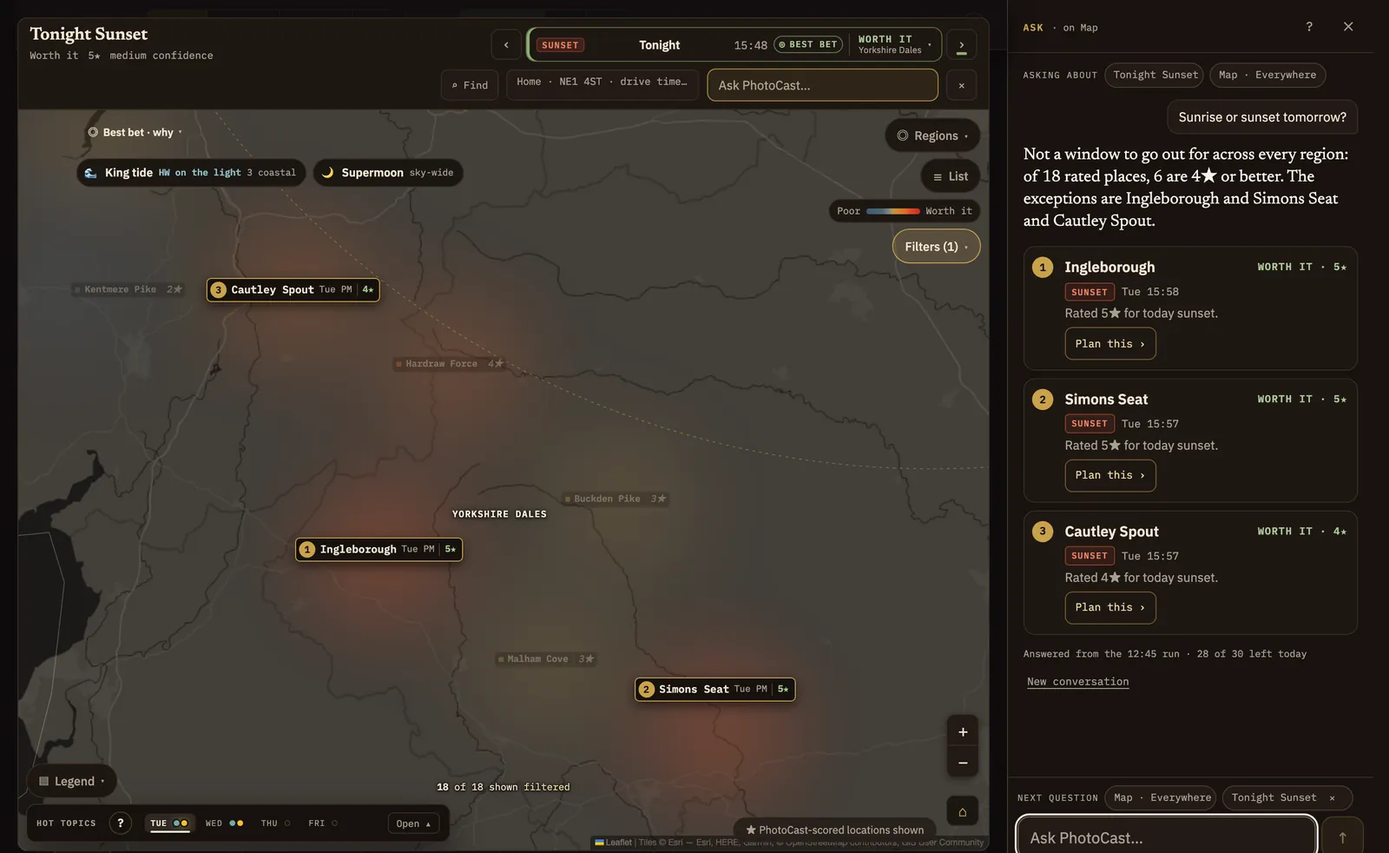
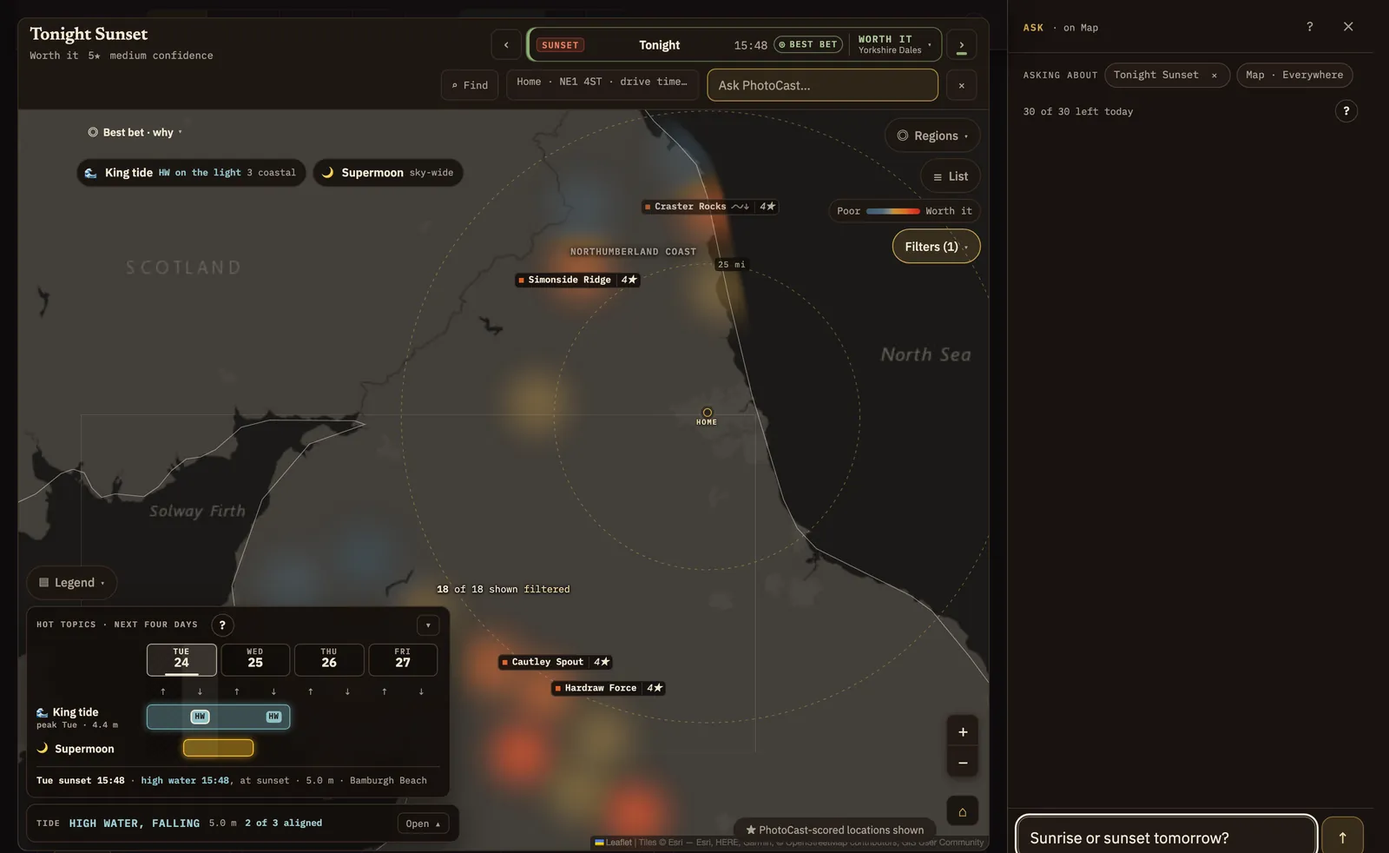
docs: one screen O4a review round 1
Re-take the Ask shot with no answer text; remove the aurora and astro shots and crop the tide shot and re-take the hot-topics shot so no real home marker ships; fix home framing, toast text, rating floors, watched-date chips, the no-callout note and area/region address wording; 3 s meta refresh so moved.js decides; moved.js and tab/Coming up tests; stale class and test names; TravelRangePanel copy; plan doc.

diff --git a/landing/guide/planning.html b/landing/guide/planning.html
@@ -28,7 +28,7 @@
 </div>
 </header>
 <main>
-<div class="phead"><div class="wrap"><div class="g-top"><a href="index.html">Guide</a><span class="sep">/</span><span>Planning a shoot</span></div><h1>Planning<br>a shoot.</h1><p>PhotoCast is one screen. <b>This week</b> sets out the next few sunrises and sunsets side by side, and <b>Further ahead</b> sits underneath it with the dates that are known months in advance. Tap a sunrise or sunset and the <a href="map.html">map</a> opens over the screen. There are no tabs to switch between.</p></div></div>
+<div class="phead"><div class="wrap"><div class="g-top"><a href="index.html">Guide</a><span class="sep">/</span><span>Planning a shoot</span></div><h1>Planning<br>a shoot.</h1><p>PhotoCast is one screen. <b>This week</b> sets out the next few sunrises and sunsets side by side, and <b>Further ahead</b> sits underneath it with the dates that are known months in advance. Tap a sunrise or sunset and the <a href="map.html">map</a> opens over the screen.</p></div></div>
 <div class="wrap"><div class="g-layout">
 <nav class="toc" aria-label="On this page"><span class="lab">On this page</span><ol><li><a href="#screen">The one screen</a></li><li><a href="#top">Top of the screen</a></li><li><a href="#lens">Drive and rating</a></li><li><a href="#this-week">This week</a></li><li><a href="#your-places">Your places row</a></li><li><a href="#days">The days ahead</a></li><li><a href="#windows">Sunrise and sunset cards</a></li><li><a href="#open">Opening a sunrise or sunset</a></li><li><a href="#bestbet">Best bet</a></li><li><a href="#away">Planning from elsewhere</a></li><li><a href="#further-ahead">Further ahead</a></li><li><a href="#topics">Every topic</a></li><li><a href="#new">New arrivals</a></li><li><a href="#filters">Filters</a></li><li><a href="#entries">Reading an entry</a></li><li><a href="#tides">Tide at the light</a></li><li><a href="#actions">Going further</a></li><li><a href="#watch-a-date">Watch a date</a></li><li><a href="#find">Finding places and areas</a></li><li><a href="#warnings">Weather warnings</a></li><li><a href="#tips">Tips</a></li></ol></nav>
 <div class="g-body">
@@ -56,7 +56,7 @@
 <p>It starts at 45 minutes on weekdays and 2h 30 at weekends. If you change it, a <span class="ui">today only</span> tag appears with a <span class="ui">Back to 45 min</span> button, and it resets the next day. If you're planning from somewhere else, it reads <span class="ui">Drive from Keswick</span>, for example.</p>
 <p>The filter uses your personalised drive times. On Lite the drive time buttons are greyed out and every location counts.</p>
 <h3>Rated</h3>
-<p>Hide anything below a rating: <span class="ui">Any rating</span>, or one to four stars and above. This works on Lite and Pro.</p>
+<p>Hide anything below a rating: <span class="ui">Any rating</span>, <span class="ui">3★+</span> or <span class="ui">4★+</span>. This works on Lite and Pro.</p>
 <p>The end of the bar tells you what's left, for example "12 spots across 6 windows", which means 12 locations across six sunrise and sunset forecasts. If your filters leave nothing, PhotoCast says so and offers a one-tap way out, such as widening the drive time or lowering the rating.</p>
 <p>These filters belong to This week. Further ahead, below it, is not filtered by drive time or rating.</p>
 </section>
@@ -99,7 +99,7 @@
 <p>A location set up for sunrise only is never rated at sunset. It isn't hidden or given a low score. PhotoCast simply doesn't forecast it for sunset, so it doesn't appear anywhere in that sunset card's spread.</p>
 </section>
 <section class="g-sec" id="open"><h2>Opening a sunrise or sunset</h2>
-<p>Tap a card to open that sunrise or sunset on the <a href="map.html">map</a>. The map opens over the screen with the sunrise or sunset already selected, your drive time and rating filters carried over, and the view framed to show your home and the card's best place together, with that place's callout open. The map has the regions, a <span class="ui">☰ List</span> of the places for that sunrise or sunset, best first, and the callout for each one. Use <span class="ui">‹</span> and <span class="ui">›</span> in the map's header to step to the previous or next sunrise or sunset. <span class="ui">✕</span> closes the map and returns you to the card, and so does your browser's Back button.</p>
+<p>Tap a card to open that sunrise or sunset on the <a href="map.html">map</a>. The map opens over the screen with the sunrise or sunset already selected, your drive time and rating filters carried over, and, when you have a home set, the view framed to show your home and the best place together, with that place's callout open. A lane or a Your places chip opens the map the same way. The map has the regions, a <span class="ui">☰ List</span> of the places for that sunrise or sunset, best first, and the callout for each one. Use <span class="ui">‹</span> and <span class="ui">›</span> in the map's header to step to the previous or next sunrise or sunset. <span class="ui">✕</span> closes the map and returns you to the card, and so does your browser's Back button.</p>
 <p>The map has its own web address, in the form <span class="ui">#map/2026-12-03/sunrise</span>, so you can bookmark a sunrise or sunset or send it to someone. The address never carries your home or your filters.</p>
 <p>Tap a location for its own forecast: every sunrise and sunset over the coming days, the times of blue hour and golden hour, and the tide if it's on the coast. If a Met Office <a href="weather-warnings.html">weather warning</a> covers that location, a chip beside the day gives its level and weather type. From there you can also open the same sunrise or sunset on the <a href="map.html">map</a>.</p>
 <figure class="shot" id="shot-open"><img src="shots/open-map.webp" width="1600" height="376" alt="A sunset opened on the map: the header with the window title, the previous and next arrows, the Best bet sunset window, Find, the home chip and the close button, with the Best bet button, hot topic chips for King tide and Supermoon, and the Regions, List and Filters buttons over the map."><figcaption>A card opened on the map: the window control and its ‹ › arrows in the header, with Regions, List and Filters on the right.</figcaption></figure>
@@ -151,7 +151,7 @@
 </dl>
 </section>
 <section class="g-sec" id="new"><h2>New arrivals</h2>
-<p>As each day passes, new dates come into the 90-day window. When something notable arrives, the <span class="ui">Further ahead ↓</span> button shows a small number, the Further ahead heading shows the same number, and a line appears at the top of the list naming the most notable arrival, for example "2 announced — the Geminids entered the window". Something exceptional is marked <span class="ui">◆ Rare</span>.</p>
+<p>As each day passes, new dates come into the 90-day window. When something notable arrives, the <span class="ui">Further ahead ↓</span> button shows a small number, or <span class="ui">◆</span> for something rare, the Further ahead heading shows the same number, and a line appears at the top of the list naming the most notable arrival, for example "2 announced — the Geminids entered the window". Something exceptional is marked <span class="ui">◆ Rare</span>.</p>
 <p>Press <span class="ui">Mark as seen</span> to clear the number. Scrolling past it does not clear it. Most of the time there's nothing new, and the button stays quiet.</p>
 </section>
 <section class="g-sec" id="filters"><h2>Filters</h2>
@@ -195,11 +195,11 @@
 <li>Until then the row says "no forecast for this day yet". Come back nearer the time, or <a href="#watch-a-date">watch the date</a> and it will come to you.</li></ul>
 </section>
 <section class="g-sec" id="watch-a-date"><h2>Watch a date<span class="pro">Pro</span></h2>
-<p>Open an entry in Further ahead and press <span class="ui">Watch this date</span>. The button stays pressed while you are watching. PhotoCast shows <span class="ui">Watching King tide. It joins your places.</span> with an <span class="ui">Undo</span> button, and the date joins your <a href="#your-places">Your places row</a> at the top of This week. Watched dates come first in that row, earliest first.</p>
+<p>Open an entry in Further ahead and press <span class="ui">Watch this date</span>. The button stays pressed while you are watching. PhotoCast shows <span class="ui">Watching King tide · 3 Dec. It joins your places.</span> with an <span class="ui">Undo</span> button, and the date joins your <a href="#your-places">Your places row</a> at the top of This week. Watched dates come first in that row, earliest first.</p>
 <h3>Before the date enters the forecast</h3>
 <p>The chip reads like <span class="ui">★ Geminids · 14 Dec</span>, with <span class="ui">in 20 days · best spots once it's forecast</span> underneath. Tap it and the screen scrolls down to the entry and opens it.</p>
 <h3>Once the date is inside the forecast</h3>
-<p>The chip becomes the plan for that morning or evening: the date, the best place and its stars, and <span class="ui">tide on the light</span> where high water falls at sunrise or sunset. Tap it to open the map on that sunrise or sunset. For a tide period PhotoCast chooses the sunrise or sunset where the tide is on the light, and the higher-rated one if both are. A date with no sunrise or sunset of its own, such as a meteor peak, shows a chip reading <span class="ui">clear-sky check on the night</span> instead. That chip is not a button.</p>
+<p>The chip becomes the plan for that morning or evening: the date, the best place and its stars, and <span class="ui">tide on the light</span> where high water falls at sunrise or sunset. Tap it to open the map on that sunrise or sunset. For a tide period PhotoCast chooses the sunrise or sunset where the tide is on the light, and the higher-rated one if both are. A date with no sunrise or sunset of its own, such as a meteor peak, shows a chip reading <span class="ui">clear-sky check on the night</span> instead. That chip is not a button. If no sunrise or sunset in a tide period has the tide on the light, or a date that is not a meteor peak has no matching topic, the chip keeps its countdown.</p>
 <h3>Stopping and expiry</h3>
 <ul><li>Press <span class="ui">Watch this date</span> again to stop, or press the <span class="ui">×</span> on the date's chip. Either way you get <span class="ui">Stopped watching</span> and an <span class="ui">Undo</span>.</li>
 <li>The chip stops showing once the event is over, and PhotoCast deletes the watch itself 14 days after the date it started.</li>

diff --git a/landing/guide/map.html b/landing/guide/map.html
@@ -34,7 +34,7 @@
 <div class="g-body">
 <section class="g-sec" id="view"><h2>Opening and closing the map</h2>
 <p>The map is a full-screen view over the forecast screen. There is no Map button: you open it from the thing you want to look at.</p>
-<ul><li>A <b>sunrise or sunset card</b> or an <b>event lane</b> in <a href="planning.html#this-week">This week</a> opens the map on that sunrise or sunset. A card also frames your home and the card's best place together and opens that place's callout.</li>
+<ul><li>A <b>sunrise or sunset card</b> or an <b>event lane</b> in <a href="planning.html#this-week">This week</a> opens the map on that sunrise or sunset. A card, a lane or a Your places chip also frames your home and the card's best place together (when you have a home set) and opens that place's callout.</li>
 <li>A chip in <a href="your-places.html">Your places</a> opens the map on that place's best sunrise or sunset, or on a watched date's morning.</li>
 <li>A day button on a <a href="planning.html#actions">Further ahead</a> entry opens the map on that day.</li>
 <li><span class="ui">⌕ Find</span> opens it when you pick a sunrise or sunset. <a href="finding-places.html#pick">More on Find</a>.</li>
@@ -43,7 +43,7 @@
 <p>To close it, press <span class="ui">✕</span> at the top right, press Escape, or use your browser's Back button. Back and Escape close whatever is on top first, such as a sheet or a menu, and the map last. Closing returns you to the card or lane you opened it from.</p>
 <h3>The map's address</h3>
 <p>The map has its own web address in the form <span class="ui">#map/2026-12-03/sunrise</span> (a date, then <span class="ui">sunrise</span>, <span class="ui">sunset</span>, <span class="ui">night</span> or <span class="ui">aurora</span>, and sometimes a place). Bookmark it, or send it, and PhotoCast opens the map on that sunrise or sunset after you sign in. If that sunrise or sunset has passed, or isn't forecast yet, the map opens with a short note saying so. The address never carries your home, your drive time or your filters.</p>
-<p>A place or area focus that Find gives you is not part of the address, so refreshing the page keeps the sunrise or sunset and not the place.</p>
+<p>An area or region focus that Find gives you is not part of the address, so a refresh keeps the sunrise or sunset but not the area. A place whose callout is open is kept.</p>
 </section>
 <section class="g-sec" id="window"><h2>Choosing a sunrise, sunset or night</h2>
 <p>The header names the sunrise or sunset you're looking at in a title, with its verdict, best rating and confidence beside it. Next to it, the control names the sunrise or sunset, such as <span class="ui">SUNSET Friday 16:17</span>, with the verdict, how many locations were rated, and the regions that look best. <span class="ui">◎ BEST BET</span> marks the one sunrise or sunset PhotoCast recommends most across the days ahead. Use <span class="ui">‹</span> and <span class="ui">›</span> to step through the days, or tap the middle to choose from the full list. The left and right arrow keys step too, while focus is in the header.</p>
@@ -73,7 +73,7 @@
 </section>
 <section class="g-sec" id="places"><h2>Locations and the callout</h2>
 <p>Tap a location marker for its callout, a summary of that place for the sunrise or sunset you're on: its rating, the drive time, a <span class="ui">Leave by</span> time, how dark the sky is, and the tide if it's on the coast. If a Met Office weather warning covers the location, a chip on the callout gives its level and type. Open it for the full forecast over the coming days. From here you can also choose <span class="ui">Plan from here</span> to plan from that area for a while. <a href="planning.html#away">More on planning from elsewhere</a>.</p>
-<p><span class="ui">Show in This week</span> in the callout closes the map and opens that place's next-days sheet on the forecast screen, which is the way back to the days around a place you have found on the map.</p>
+<p><span class="ui">Show in This week</span> in the callout closes the map and opens that place's next-days sheet on the forecast screen, which is the way back to the days around a place you have found on the map. It is not offered on a sunrise or sunset that has passed.</p>
 <p class="pro-line"><span class="pro">Pro</span><span>Drive and leave-by times, Red Sky and Golden Hour scores and the tide at the light are available with Pro.</span></p>
 </section>
 <section class="g-sec" id="rate"><h2>How was it?<span class="pro">Pro</span></h2>
@@ -106,13 +106,13 @@
 </section>
 <section class="g-sec" id="hot-topics"><h2>Hot topics panel</h2>
 <p>The Hot topics panel sits at the bottom left and starts closed. Open it with <span class="ui">▴</span> to see the next four days, each split into sunrise <span class="ui">↑</span> and sunset <span class="ui">↓</span>. Each topic gets a row, with a bar across the sunrises and sunsets it covers. The day you're looking at is outlined.</p>
-<figure class="shot" id="shot-hot-topics"><img src="shots/map-hot-topics.webp" width="1600" height="736" alt="The Hot topics panel open over the map, showing Tuesday 3 to Friday 6 with a sunrise and sunset column each, and a bar for Mist on Wednesday."><figcaption>The Hot topics panel open: mist forecast on Wednesday.</figcaption></figure>
+<figure class="shot" id="shot-hot-topics"><img src="shots/map-hot-topics.webp" width="904" height="422" alt="The Hot topics panel open over the map, showing Tuesday 24 to Friday 27 with a sunrise and sunset column each, a King tide bar across Tuesday and Wednesday with HW marks, a Supermoon bar on Tuesday, and a line saying high water falls at sunset."><figcaption>The Hot topics panel open: a king tide with high water marked, and a supermoon.</figcaption></figure>
 </section>
 <section class="g-sec" id="tide"><h2>Tide panel<span class="pro">Pro</span></h2>
 <p>When the map shows any coast, a Tide panel appears at the bottom left. It answers the coastal question a sky forecast can't: will the water be where you want it at sunrise or sunset?</p>
 <h3>The tide curve</h3>
 <p>Open the panel to see the whole day's tide, from midnight to midnight. There's a lot in it, so here it is piece by piece, using Friday's 16:17 sunset.</p>
-<figure class="anno" id="shot-tide"><div class="crop"><img src="shots/map-tide.webp" width="2164" height="994" alt="The Tide panel open for Friday's 16:17 sunset: a curve from midnight to midnight with high water at 00:40 and 13:20, low water at 07:07 and 19:27, sunrise at 07:10 and sunset at 16:17 marked, and a dot at 0.2 m on the falling tide. The footer reads 13 of 25 coastal spots are dimmed, 11 of them want high water."><span class="pin xy-33_5-7_2">1</span><span class="pin xy-1_8-39_3">2</span><span class="pin xy-26_6-42_6">3</span><span class="pin xy-48_3-28_9">4</span><span class="pin xy-52_2-51_8">5</span><span class="pin xy-72_6-45_9">6</span><span class="pin xy-84_2-75_7">7</span><span class="pin xy-27_6-88_9">8</span><span class="pin xy-95-26_9">9</span></div></figure>
+<figure class="anno" id="shot-tide"><div class="crop full"><img src="shots/map-tide.webp" width="896" height="360" alt="The Tide panel open for Friday's 16:17 sunset: a curve from midnight to midnight with high water at 00:40 and 13:20, low water at 07:07 and 19:27, sunrise at 07:10 and sunset at 16:17 marked, and a dot at 0.2 m on the falling tide. The footer reads 13 of 25 coastal spots are dimmed, 11 of them want high water."><span class="pin xy-33_5-7_2">1</span><span class="pin xy-1_8-39_3">2</span><span class="pin xy-26_6-42_6">3</span><span class="pin xy-48_3-28_9">4</span><span class="pin xy-52_2-51_8">5</span><span class="pin xy-72_6-45_9">6</span><span class="pin xy-84_2-75_7">7</span><span class="pin xy-27_6-88_9">8</span><span class="pin xy-95-26_9">9</span></div></figure>
 <ol class="anno-key">
 <li><span class="n">1</span><span><b>The answer in words.</b> The state of the tide at sunrise or sunset and whether the water level is rising or falling (<span class="ui">MID TIDE, FALLING</span>), then the height and how it compares with an average tide. If you read nothing else, read this.</span></li>
 <li><span class="n">2</span><span><b>High, mid and low.</b> Faint dashed lines across the chart mark high, mid and low water. The level that sunrise or sunset falls in is highlighted.</span></li>

diff --git a/landing/guide/night-sky.html b/landing/guide/night-sky.html
@@ -53,7 +53,6 @@
 <p>When the aurora is possible, aurora nights appear in the Map's list of events alongside the sunrises and sunsets, marked in green. Choose one and the map changes to aurora colours, from dark sky to aurora green, with each location rated for that night.</p>
 <span class="ramp ramp-night" aria-hidden="true"></span><div class="ramp-lab" aria-hidden="true"><span>1★ dark sky, no show</span><span>3★</span><span>5★ aurora green</span></div>
 <p class="mt-14">A line across the map estimates where the aurora may clear the northern horizon on camera. It is an estimate, not a firm boundary: north of it you have a chance, and the further north you are the better. Dashed amber is the forecast and pale is live.</p>
-<figure class="shot wide" id="shot-aurora-map"><img src="shots/map-aurora.webp" width="1600" height="660" alt="The map on tonight's aurora night: the window control reads AURORA, Tonight, and the map is shaded from dark sky to aurora green over the North East. Ragpath Wood and Low Barns, Witton Le Wear are rated 3 stars within the drive-time rings around home. The Hot topics panel shows aurora on Friday night."><figcaption>An aurora night on the Map. Each dark-sky location is rated for the night, and the colours run from dark sky to aurora green.</figcaption></figure>
 <p>Aurora nights have no regional verdict, so the rankings and Best bet used for sunrise and sunset don't apply. Go by the stars on each location and where the line falls. The Subject filter and the dark-sky toggle are hidden on aurora nights, because those nights already use only dark-sky locations.</p>
 <p class="pro-line"><span class="pro">Pro</span><span>Aurora nights on the Map are available with Pro. On Lite the aurora night in the list explains what Pro adds.</span></p>
 </section>
@@ -61,7 +60,6 @@
 <p>Astro nights rate locations for a clear, dark night sky, for stargazing, the Milky Way and astrophotography (photographing the night sky). They appear in the Map's list of events marked <span class="ui">ASTRO</span>, on nights the forecast has covered, with the time the night begins.</p>
 <p>Each location's rating takes account of the cloud forecast for the night and how dark the sky is there, so a clear sky over a town scores lower than the same sky over the fells. The map uses the same Poor to Worth it colours as a sunrise or sunset. The moon's phase and brightness are shown in a location's details, because a bright moon washes out faint stars.</p>
 <p>Astro nights have no regional verdict or Best bet. Go by the stars on each location. On astro nights the Subject filter and the dark-sky toggle are hidden, because those nights already use only dark-sky locations and sky darkness is already part of the rating. The rating floor, drive time and scope filters stay.</p>
-<figure class="shot wide" id="shot-astro"><img src="shots/map-astro.webp" width="1600" height="732" alt="The Map on tonight's astro night from 17:40, with warm colours across the Lake District, Yorkshire Dales and Northumberland, and 5-star locations including Holy Island Causeway, Dorothy Farrer's Spring Wood, Hawnby Hill, Conistone Limestone Pavement and Kilnsey Crag."><figcaption>Tonight's astro night: clear skies over the Lake District, the Dales and the North York Moors, with several 5★ dark-sky locations.</figcaption></figure>
 </section>
 <section class="g-sec" id="dark-sky"><h2>Dark skies</h2>
 <p>Every location has a light pollution rating on the Bortle scale, from 1 for the darkest skies to 9 for a city centre. You'll see it as "sky 3" on a location's chip and in its details.</p>

diff --git a/frontend/src/test/guideSections.test.js b/frontend/src/test/guideSections.test.js
@@ -29,8 +29,8 @@ describe('GUIDE_PAGES', () => {
     expect(stubs.sort()).toEqual(['at-a-glance.html', 'coming-up.html']);
     expect(Object.keys(GUIDE_PAGES)).not.toContain('at-a-glance');
     expect(Object.keys(GUIDE_PAGES)).not.toContain('coming-up');
-    expect(pageSource('at-a-glance')).toContain('content="0;url=planning.html"');
-    expect(pageSource('coming-up')).toContain('content="0;url=planning.html#further-ahead"');
+    expect(pageSource('at-a-glance')).toContain('content="3;url=planning.html"');
+    expect(pageSource('coming-up')).toContain('content="3;url=planning.html#further-ahead"');
   });
 
   it('is frozen, so a door cannot invent a page', () => {
@@ -211,8 +211,13 @@ describe('the one-screen guides (docs/engineering/one-screen-plan.md, O4a)', () 
 
   it('the guide describes one screen: no tab bar, no Coming up tab, no "At a Glance", no Map tab', () => {
     files.forEach((f) => {
-      const text = readFileSync(resolve(GUIDE_DIR, f), 'utf8').replace(/<[^>]+>/g, ' ');
-      expect(text, `${f} still names the old screens`).not.toMatch(/At a Glance|Map tab|Coming up tab|\bGlance\b/);
+      const source = readFileSync(resolve(GUIDE_DIR, f), 'utf8');
+      const description = source.match(/<meta name="description" content="([^"]*)"/)?.[1] ?? '';
+      const text = `${description} ${source.replace(/<[^>]+>/g, ' ')}`
+        .replace(/\b(new|browser|browser's) tab\b/gi, '');
+      expect(text, `${f} still names the old screens`)
+        .not.toMatch(/At a Glance|Map tab|Coming up tab|\bComing up\b|\bGlance\b/);
+      expect(text, `${f} still talks about tabs`).not.toMatch(/\btabs?\b/i);
     });
   });
 
@@ -235,5 +240,29 @@ describe('the one-screen guides (docs/engineering/one-screen-plan.md, O4a)', () 
       });
     });
     expect(problems).toEqual([]);
+  });
+});
+
+describe('moved.js, the redirect behind the two retired pages', () => {
+  const code = readFileSync(resolve(GUIDE_DIR, 'moved.js'), 'utf8');
+  /** Runs the script against a stubbed `location` and returns the URL it replaced to. */
+  const redirectOf = (pathname, search, hash) => {
+    let target = null;
+    new Function('location', code)({ pathname, search, hash, replace: (url) => { target = url; } });
+    return target;
+  };
+
+  it.each([
+    ['/guide/coming-up.html', '', '', 'planning.html#further-ahead'],
+    ['/guide/coming-up.html', '', '#list', 'planning.html#further-ahead'],
+    ['/guide/coming-up.html', '', '#watchlist', 'planning.html#your-places'],
+    ['/guide/coming-up.html', '?embed=1', '#tides', 'planning.html?embed=1#tides'],
+    ['/guide/coming-up.html', '', '#topics', 'planning.html#topics'],
+    ['/guide/at-a-glance.html', '', '', 'planning.html'],
+    ['/guide/at-a-glance.html', '', '#bestbet', 'planning.html#bestbet'],
+    ['/guide/at-a-glance.html', '?embed=1', '#lens', 'planning.html?embed=1#lens'],
+    ['/guide/at-a-glance.html', '', '#list', 'planning.html#list'],
+  ])('%s%s%s lands on %s', (pathname, search, hash, expected) => {
+    expect(redirectOf(pathname, search, hash)).toBe(expected);
   });
 });

diff --git a/landing/guide/your-places.html b/landing/guide/your-places.html
@@ -47,9 +47,9 @@
 <li><b>Ask PhotoCast.</b> Ask breaks an exact tie in your favour. See below.</li></ul>
 </section>
 <section class="g-sec" id="dates"><h2>Watching a date<span class="pro">Pro</span></h2>
-<p>A place or an area is somewhere you care about. A watched date is a day you care about: a king tide, a meteor shower, a solstice. Open the entry in <a href="planning.html#further-ahead">Further ahead</a> and press <span class="ui">Watch this date</span>. The button stays pressed while you are watching, and PhotoCast says <span class="ui">Watching King tide. It joins your places.</span> with an <span class="ui">Undo</span> button.</p>
-<ul><li><b>Before the date is in the forecast</b>, its chip in the Your places row reads like <span class="ui">★ King tide · 3 Dec · in 9 days</span>. Tap it to scroll to the entry and open it.</li>
-<li><b>Once it is in the forecast</b>, the chip shows the plan for that morning or evening: the best place and its stars, and <span class="ui">tide on the light</span> where it applies. Tap it to open the map on that sunrise or sunset. A date with no sunrise or sunset of its own, such as a meteor peak, shows <span class="ui">clear-sky check on the night</span> instead, which is not a button.</li>
+<p>A place or an area is somewhere you care about. A watched date is a day you care about: a king tide, a meteor shower, a solstice. Open the entry in <a href="planning.html#further-ahead">Further ahead</a> and press <span class="ui">Watch this date</span>. The button stays pressed while you are watching, and PhotoCast says <span class="ui">Watching King tide · 3 Dec. It joins your places.</span> with an <span class="ui">Undo</span> button.</p>
+<ul><li><b>Before the date is in the forecast</b>, its chip in the Your places row reads like <span class="ui">★ Geminids · 14 Dec</span>, with <span class="ui">in 20 days · best spots once it's forecast</span> underneath. Tap it to scroll to the entry and open it.</li>
+<li><b>Once it is in the forecast</b>, the chip shows the plan for that morning or evening: the best place and its stars, and <span class="ui">tide on the light</span> where it applies. Tap it to open the map on that sunrise or sunset. A date with no sunrise or sunset of its own, such as a meteor peak, shows <span class="ui">clear-sky check on the night</span> instead, which is not a button. If no sunrise or sunset in a tide period has the tide on the light, or a date that is not a meteor peak has no matching topic, the chip keeps its countdown.</li>
 <li><b>Stop watching</b> by pressing <span class="ui">Watch this date</span> again or the <span class="ui">×</span> on the chip, which says <span class="ui">Stop watching</span> to a screen reader. You get an <span class="ui">Undo</span> either way.</li>
 <li><b>Expiry.</b> A chip stops showing when the event is over, and PhotoCast deletes the watch 14 days after the date it started, so old dates never use up your 25.</li>
 <li>The noctilucent cloud season is a stretch of weeks, not a date, so it cannot be watched.</li></ul>

diff --git a/landing/guide/ask-photocast.html b/landing/guide/ask-photocast.html
@@ -36,7 +36,7 @@
 <ul><li><b>On a computer</b>, type into the <span class="ui">Ask PhotoCast…</span> box at the top of the screen (in the map's header while the map is open), or press <span class="ui">/</span> to jump straight to it. The answer opens as a column on the right. The map or the forecast screen narrows to make room, so you can read the answer and see the locations at the same time.</li>
 <li><b>On a phone or iPad</b>, tap <span class="ui">Ask PhotoCast…</span> at the bottom of the screen and the answer opens in a panel.</li></ul>
 <p>Ask knows where you are in the app. The <span class="ui">Asking about</span> labels at the top show which forecast and map area your question refers to. A sunrise or sunset label, such as <span class="ui">Tomorrow sunrise</span>, can be removed with ✕. A view label, such as <span class="ui">This week · all regions</span> or <span class="ui">Map · Everywhere</span>, cannot be removed. Once you have asked something, a <span class="ui">follow-up · N so far</span> label shows how long the conversation is.</p>
-<figure class="shot wide" id="shot-ask"><img src="shots/ask-on-map.webp" width="1600" height="771" alt="Ask PhotoCast open beside the Map. The question is 'Sunrise or sunset tomorrow?'. The answer says sunset is the better bet and lists numbered picks: 1 Alnmouth, Worth it, 4 stars, sunset Wednesday 16:23, 1h 11min from home, mid tide; 2 Bamburgh Castle. The same numbers mark the picks on the map."><figcaption>"Sunrise or sunset tomorrow?" The numbered picks in the answer are marked with the same numbers on the map.</figcaption></figure>
+<figure class="shot wide" id="shot-ask"><img src="shots/ask-on-map.webp" width="1600" height="982" alt="Ask PhotoCast open beside the map view. The Asking about labels read Tonight Sunset and Map · Everywhere, the allowance reads 30 of 30 left today, and the question Sunrise or sunset tomorrow? is typed into the box at the foot of the column, ready to send."><figcaption>Ask opens as a column beside the map. The labels under Asking about say which sunrise or sunset and which view the question is about.</figcaption></figure>
 </section>
 <section class="g-sec" id="ready"><h2>Ready questions</h2>
 <p>Ask suggests a few questions that suit what you're looking at, This week or the map, such as "Best spot this weekend?" or "Somewhere within an hour of home?". Ready answers are prepared in advance and do not count towards your daily question allowance.</p>

diff --git a/landing/guide/guide.css b/landing/guide/guide.css
@@ -95,8 +95,6 @@ html.embed .g-cards{grid-template-columns:minmax(0,1fr)}
 .anno-key li{display:grid;grid-template-columns:22px minmax(0,1fr);gap:12px;font-size:15px;color:var(--ink-soft)}
 .anno-key li b{color:var(--ink);font-weight:600}
 .anno .crop.full img{position:static;width:100%;height:auto}
-.anno .crop.wc{aspect-ratio:1030/165}
-.anno .crop.wc img{width:208.7%;left:-9.71%;top:0}
 .anno-key .n{width:22px;height:22px;border-radius:50%;background:var(--ink);color:#181210;font:600 11px var(--mono);display:flex;align-items:center;justify-content:center;margin-top:1px}
 /* hub search */
 .g-search{max-width:660px;margin:0 0 34px}
@@ -143,32 +141,23 @@ html.embed .g-cards{grid-template-columns:minmax(0,1fr)}
 .sw-ff9900{background:#ff9900}
 .sw-ffe923{background:#ffe923}
 .xy-1_8-39_3{left:1.8%;top:39.3%}
-.xy-10_7-13_3{left:10.7%;top:13.3%}
 .xy-26_6-42_6{left:26.6%;top:42.6%}
 .xy-27_6-88_9{left:27.6%;top:88.9%}
 .xy-33_5-7_2{left:33.5%;top:7.2%}
-.xy-38_8-13_3{left:38.8%;top:13.3%}
-.xy-4_5-13_3{left:4.5%;top:13.3%}
 .xy-40_8-80_1{left:40.8%;top:80.1%}
 .xy-41_6-61{left:41.6%;top:61%}
-.xy-41_7-79_4{left:41.7%;top:79.4%}
 .xy-42-93_2{left:42%;top:93.2%}
 .xy-44_3-47_6{left:44.3%;top:47.6%}
 .xy-48_3-28_9{left:48.3%;top:28.9%}
 .xy-48_4-8{left:48.4%;top:8%}
 .xy-52_2-51_8{left:52.2%;top:51.8%}
-.xy-59_2-13_3{left:59.2%;top:13.3%}
 .xy-62_5-27_6{left:62.5%;top:27.6%}
 .xy-72_6-45_9{left:72.6%;top:45.9%}
-.xy-77_7-60_6{left:77.7%;top:60.6%}
 .xy-8_6-27_6{left:8.6%;top:27.6%}
 .xy-8_6-36_9{left:8.6%;top:36.9%}
-.xy-83_5-13_3{left:83.5%;top:13.3%}
 .xy-84_2-75_7{left:84.2%;top:75.7%}
-.xy-89_6-60_6{left:89.6%;top:60.6%}
 .xy-91_3-8{left:91.3%;top:8%}
 .xy-95-26_9{left:95%;top:26.9%}
-.xy-96_1-60_6{left:96.1%;top:60.6%}
 .anno .crop.ar-1120x291{aspect-ratio:1120/291}
 .shot.phone{max-width:300px}
 @media (max-width:639px){.ui{white-space:normal}}

diff --git a/landing/guide/getting-started.html b/landing/guide/getting-started.html
@@ -56,7 +56,7 @@
 <p><a href="planning.html#this-week">More on This week</a></p>
 </section>
 <section class="g-sec" id="where"><h2>3 · Where: the map</h2>
-<p>Tap a Worth it or Maybe card. The map opens over the screen, on that sunrise or sunset, framed to show your home and the card's best place together, with that place's callout already open. You'll see the forecast colours across the region, the regions ranked from best to worst, and the individual locations with their star ratings. Each star rating runs from one to five: one or two means the light is unlikely to reward a trip, three means some colour is possible but not reliable, four means conditions look good, and five is kept for the rare occasions when everything looks set to come together.</p>
+<p>Tap a Worth it or Maybe card. The map opens over the screen, on that sunrise or sunset, framed (when you have a home set) to show your home and the best place together, with that place's callout already open. A lane or a Your places chip opens it the same way. You'll see the forecast colours across the region, the regions ranked from best to worst, and the individual locations with their star ratings. Each star rating runs from one to five: one or two means the light is unlikely to reward a trip, three means some colour is possible but not reliable, four means conditions look good, and five is kept for the rare occasions when everything looks set to come together.</p>
 <p>Use <span class="ui">‹</span> and <span class="ui">›</span> in the map's header to step to the sunrise or sunset before or after. When you have finished, <span class="ui">✕</span> or your browser's Back button closes the map and returns you to the card you came from.</p>
 <p><a href="map.html">More on the map</a></p>
 </section>

diff --git a/landing/guide/settings.html b/landing/guide/settings.html
@@ -43,7 +43,7 @@
 <p>A slider from 10 to 50 miles (22 by default) that sets how far counts as "close to home", measured in a straight line from your home. It is used only by Ask PhotoCast, for questions about somewhere near home. It is separate from the drive time filter (Any, 45 min, 1h 30 or 2h 30 of road drive time) in This week and on the map.</p>
 </section>
 <section class="g-sec" id="sub-regions"><h2>Your sub-regions</h2>
-<p>If your Lite account asks you to choose sub-regions, you'll see your choices here. You can choose up to three. Lite shows forecast ratings for every location inside the sub-regions you've picked. Locations outside them are marked on the map and in This week.</p>
+<p>If your Lite account asks you to choose sub-regions, you'll see your choices here. You can choose up to three. Lite shows forecast ratings for every location inside the sub-regions you've picked. Locations outside them are marked on the map, in This week and in Further ahead.</p>
 <ul><li>For the first 7 days after you first choose them (counting that day), you can change your sub-regions freely.</li>
 <li>After that, adding a sub-region while you have fewer than three is always allowed and doesn't start a lock.</li>
 <li>Swapping or removing a sub-region is allowed once every 30 days.</li>

diff --git a/frontend/src/test/TravelDaysView.test.jsx b/frontend/src/test/TravelDaysView.test.jsx
@@ -501,7 +501,7 @@ describe('TravelDaysView: the range panel', () => {
     expect(screen.getByTestId('travel-panel-to')).toHaveTextContent('Fri 6 Nov');
     expect(screen.getByTestId('travel-panel-note')).toHaveTextContent('London — work');
     expect(screen.getByTestId('travel-panel-effect'))
-      .toHaveTextContent('The Plan tab shows these as Away. No forecast is generated for them, so nothing is rated.');
+      .toHaveTextContent('This week shows these as Away. No forecast is generated for them, so nothing is rated.');
     expect(screen.getByTestId('travel-panel-remove-section'))
       .toHaveTextContent('These days are forecast again from the next run.');
   });

diff --git a/landing/guide/finding-places.html b/landing/guide/finding-places.html
@@ -4,7 +4,7 @@
 <meta charset="UTF-8">
 <meta name="viewport" content="width=device-width, initial-scale=1.0">
 <title>Finding places — PhotoCast guide</title>
-<meta name="description" content="How to use Find: search for a place, area, region or day from any tab, with the keyboard shortcut.">
+<meta name="description" content="How to use Find: search for a place, area, region or day from the forecast screen or the map, with the keyboard shortcut.">
 <meta name="theme-color" content="#181210">
 <link rel="icon" type="image/png" href="../favicon.png">
 <link rel="preconnect" href="https://fonts.googleapis.com">

diff --git a/frontend/src/test/WindowFirstHeatStripBestBetsDoor.test.jsx b/frontend/src/test/WindowFirstHeatStripBestBetsDoor.test.jsx
@@ -148,7 +148,7 @@ describe('WindowFirstHeatStrip — guide doors (G3)', () => {
     expect(mockOpenGuide).toHaveBeenCalledWith('reading-the-forecast', 'fixed', expect.any(Object));
   });
 
-  it('puts "What does this do?" in the Best bets popover only for a locked reader, opening at-a-glance#bestbet', async () => {
+  it('puts "What does this do?" in the Best bets popover only for a locked reader, opening planning#bestbet', async () => {
     await renderStrip({ picksLocked: true });
     const trigger = screen.getByTestId('wf-heat-bestbets-upsell-trigger');
     fireEvent.click(trigger);
